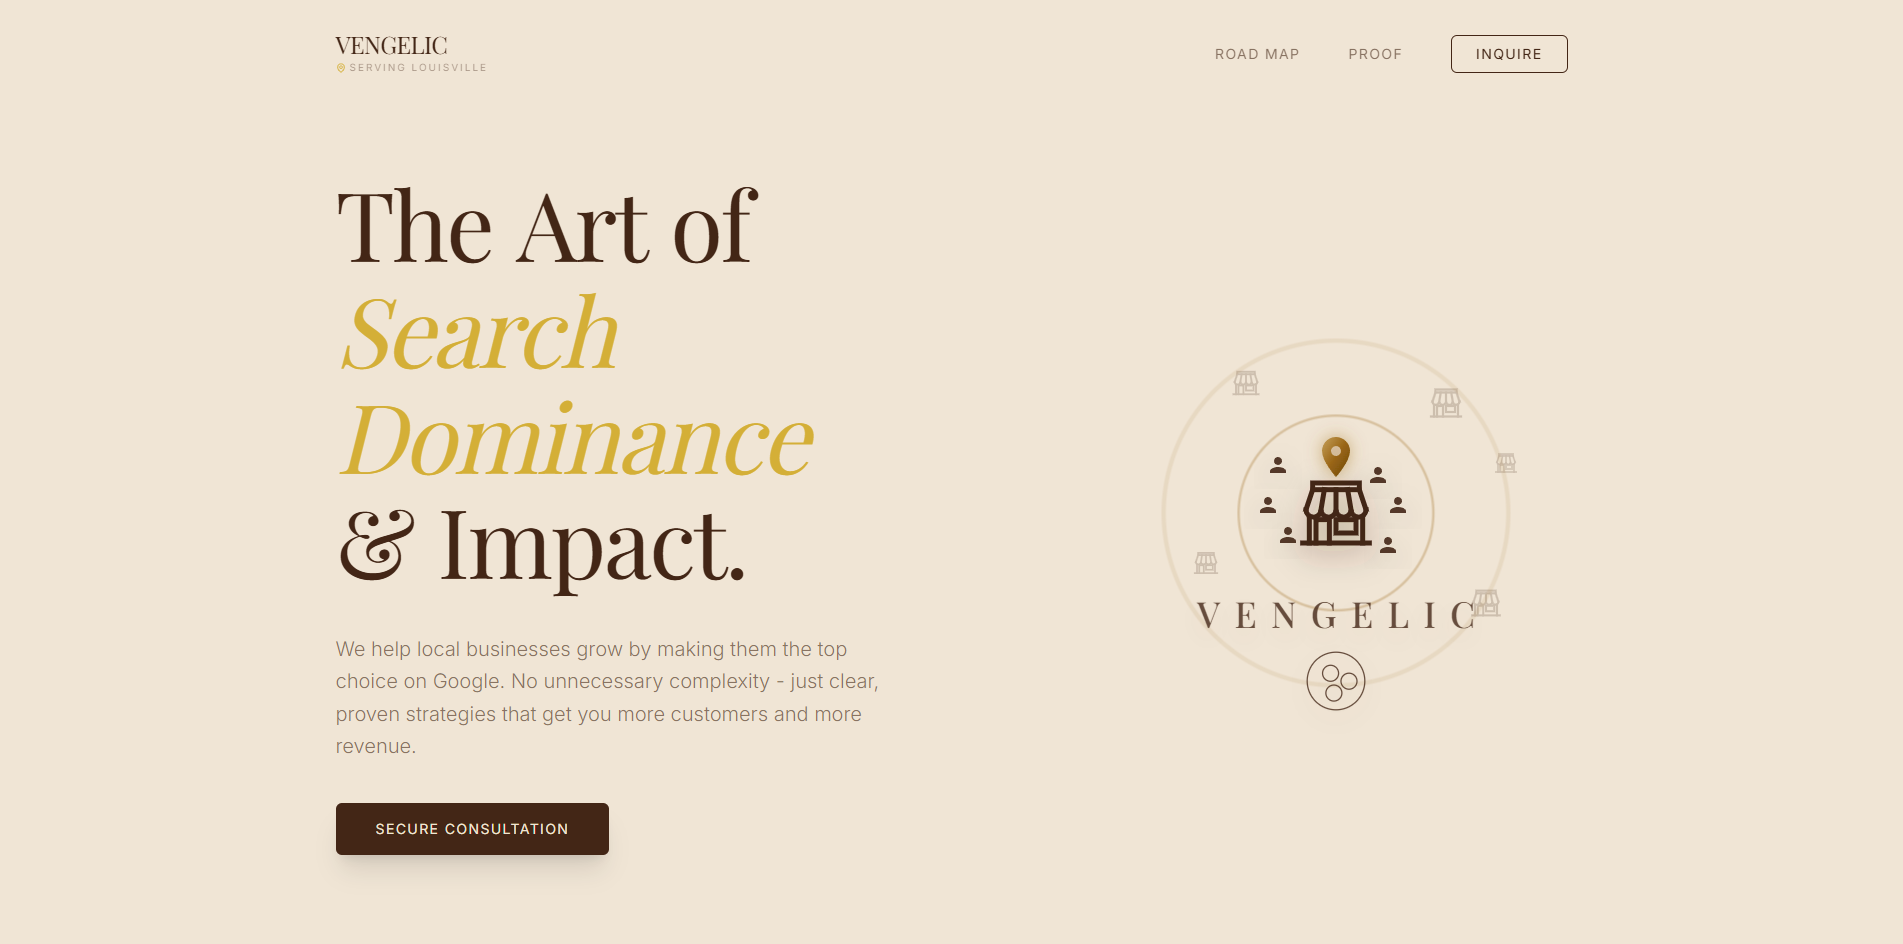
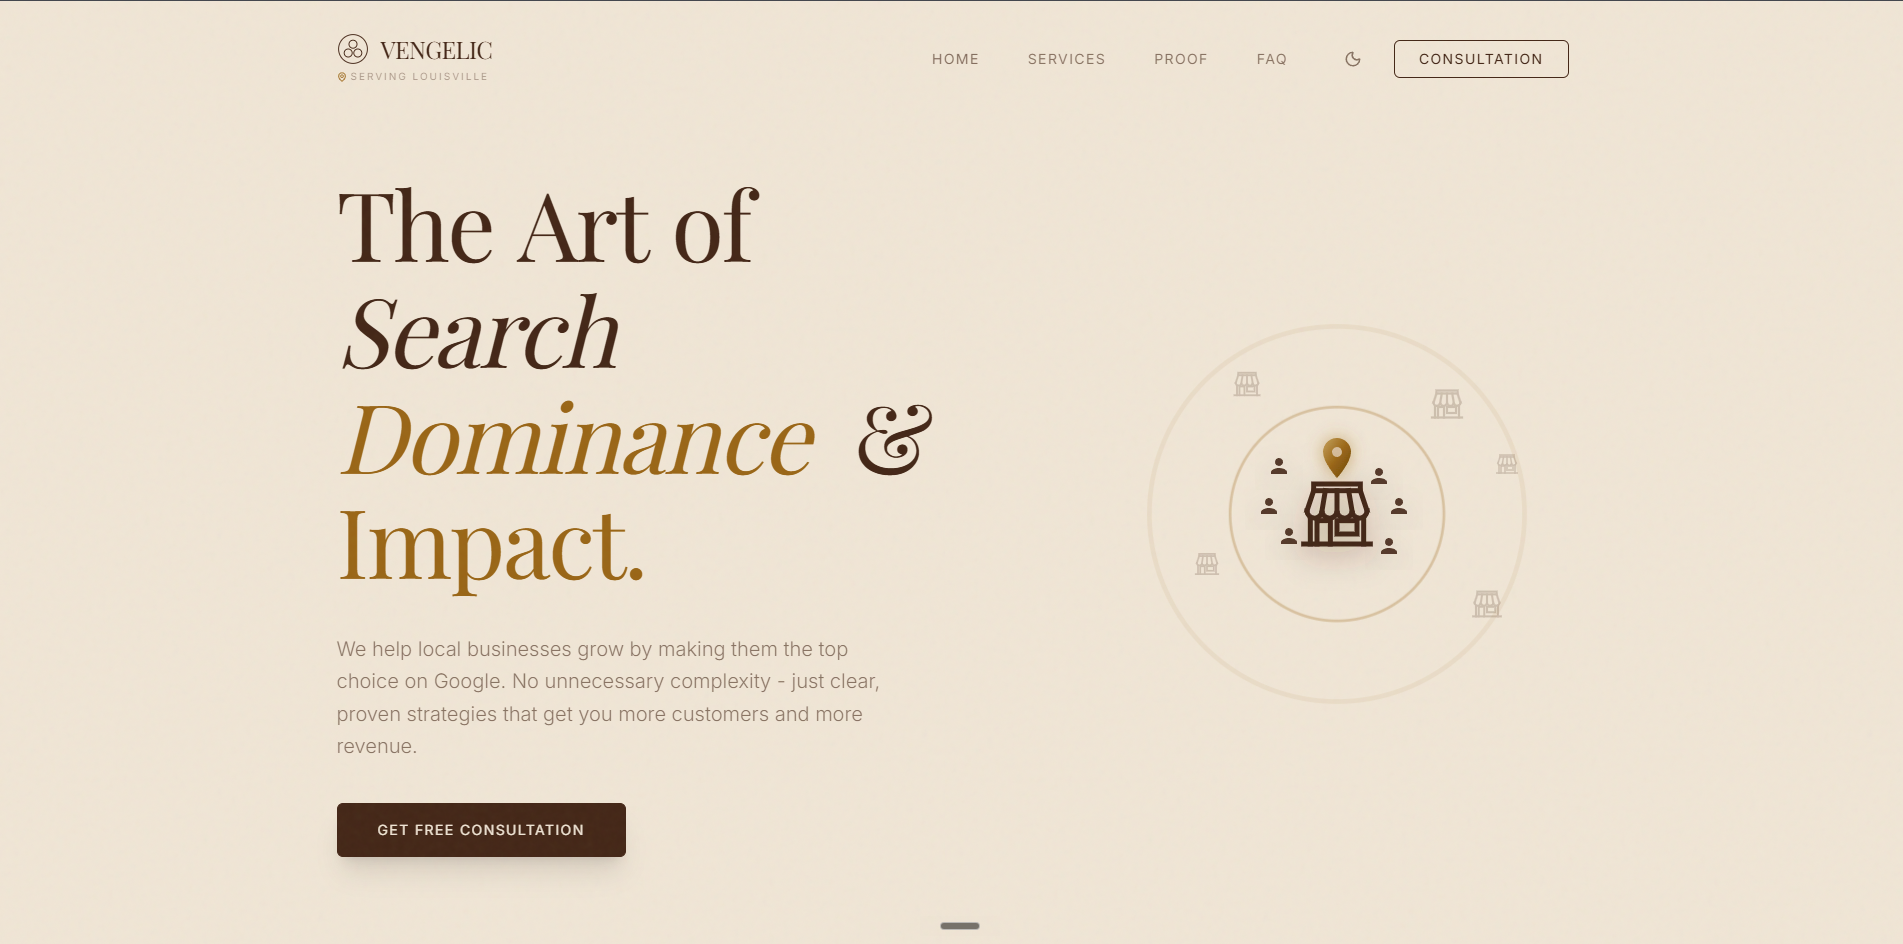
completed backend of the webiste and updated Open Graph Image Optimized section headers on mobile and centered them.

diff --git a/src/components/ContactForm.tsx b/src/components/ContactForm.tsx
@@ -3,21 +3,38 @@
 import React, { useState } from "react";
 import { motion } from "framer-motion";
 import { Loader2 } from "lucide-react";
+import { submitContactForm } from "@/app/actions/contact";
 
 export const ContactForm = () => {
   const [isSubmitting, setIsSubmitting] = useState(false);
   const [isSubmitted, setIsSubmitted] = useState(false);
-  const [website, setWebsite] = useState("");
+  const [error, setError] = useState<string | null>(null);
+  
+  const [formData, setFormData] = useState({
+    name: "",
+    email: "",
+    website: "",
+    message: ""
+  });
 
   const handleSubmit = async (e: React.FormEvent) => {
     e.preventDefault();
     setIsSubmitting(true);
+    setError(null);
     
-    // Simulate processing
-    await new Promise(resolve => setTimeout(resolve, 2000));
-    
-    setIsSubmitting(false);
-    setIsSubmitted(true);
+    try {
+      const result = await submitContactForm(formData);
+      
+      if (result.success) {
+        setIsSubmitted(true);
+      } else {
+        setError(result.error || "Something went wrong. Please try again.");
+      }
+    } catch (err) {
+      setError("A connection error occurred. Please try again.");
+    } finally {
+      setIsSubmitting(false);
+    }
   };
 
   if (isSubmitted) {
@@ -40,12 +57,19 @@ export const ContactForm = () => {
 
   return (
     <form className="space-y-8" onSubmit={handleSubmit}>
+      {error && (
+        <div className="p-4 bg-red-50 text-red-600 text-sm rounded-md border border-red-100">
+          {error}
+        </div>
+      )}
       <div className="grid grid-cols-1 md:grid-cols-2 gap-8">
         <div className="space-y-2">
           <label className="text-xs uppercase tracking-widest text-espresso/60 block px-1">Name *</label>
           <input
             required
             type="text"
+            value={formData.name}
+            onChange={(e) => setFormData({ ...formData, name: e.target.value })}
             className="w-full bg-transparent border-b border-espresso/20 py-3 px-1 focus:border-espresso outline-none transition-colors text-espresso"
             placeholder="Evelyn Harper"
           />
@@ -55,6 +79,8 @@ export const ContactForm = () => {
           <input
             required
             type="email"
+            value={formData.email}
+            onChange={(e) => setFormData({ ...formData, email: e.target.value })}
             className="w-full bg-transparent border-b border-espresso/20 py-3 px-1 focus:border-espresso outline-none transition-colors text-espresso"
             placeholder="evelyn@aether.com"
           />
@@ -65,8 +91,8 @@ export const ContactForm = () => {
         <label className="text-xs uppercase tracking-widest text-espresso/60 block px-1">Website</label>
         <input
           type="text"
-          value={website}
-          onChange={(e) => setWebsite(e.target.value)}
+          value={formData.website}
+          onChange={(e) => setFormData({ ...formData, website: e.target.value })}
           className="w-full bg-transparent border-b border-espresso/20 py-3 px-1 focus:border-espresso outline-none transition-colors text-espresso"
           placeholder="vengelic.com"
         />
@@ -76,6 +102,8 @@ export const ContactForm = () => {
         <label className="text-xs uppercase tracking-widest text-espresso/60 block px-1">Message</label>
         <textarea
           rows={4}
+          value={formData.message}
+          onChange={(e) => setFormData({ ...formData, message: e.target.value })}
           className="w-full bg-transparent border-b border-espresso/20 py-3 px-1 focus:border-espresso outline-none transition-colors text-espresso resize-none"
           placeholder="Tell us about your brand's vision..."
         />

diff --git a/src/app/actions/contact.ts b/src/app/actions/contact.ts
@@ -1,0 +1,71 @@
+"use server";
+
+import { Resend } from "resend";
+import { supabase } from "@/lib/supabase";
+
+const resend = new Resend(process.env.RESEND_API_KEY);
+
+interface ContactFormData {
+  name: string;
+  email: string;
+  website: string;
+  message: string;
+}
+
+export async function submitContactForm(data: ContactFormData) {
+  try {
+    // 1. Basic Validation
+    if (!data.name || !data.email) {
+      return { success: false, error: "Name and Email are required." };
+    }
+
+    // 2. Save to Supabase
+    const { error: dbError } = await supabase
+      .from("leads")
+      .insert([
+        {
+          name: data.name,
+          email: data.email,
+          website: data.website || null,
+          message: data.message || null,
+        },
+      ]);
+
+    if (dbError) {
+      console.error("Supabase Error:", dbError);
+      return { success: false, error: "Failed to save lead to database." };
+    }
+
+    // 3. Send Email via Resend
+    const recipientEmail = process.env.CONTACT_RECIPIENT_EMAIL || "julio@vengelic.com";
+
+    const { error: mailError } = await resend.emails.send({
+      from: "Vengelic Website <onboarding@resend.dev>",
+      to: [recipientEmail],
+      subject: `New Lead: ${data.name} from ${data.website || "No Website"}`,
+      html: `
+        <div style="font-family: serif; color: #432616; padding: 20px;">
+          <h2 style="border-bottom: 1px solid #432616; padding-bottom: 10px;">New Consultation Request</h2>
+          <p><strong>Name:</strong> ${data.name}</p>
+          <p><strong>Email:</strong> ${data.email}</p>
+          <p><strong>Website:</strong> ${data.website || "Not provided"}</p>
+          <p><strong>Message:</strong></p>
+          <p style="white-space: pre-wrap;">${data.message || "No message provided."}</p>
+          <hr style="border: 0; border-top: 1px solid #eee; margin-top: 20px;" />
+          <p style="font-size: 12px; color: #999;">Sent from Vengelic Website</p>
+        </div>
+      `,
+    });
+
+    if (mailError) {
+      console.error("Resend Error Details:", JSON.stringify(mailError, null, 2));
+      // We return success: true because the lead IS in Supabase, but we warn about the email.
+      return { success: true, warning: "Lead saved, but notification email failed. Check server logs." };
+    }
+
+    return { success: true };
+  } catch (error) {
+    console.error("Action Error:", error);
+    return { success: false, error: "An unexpected error occurred." };
+  }
+}

diff --git a/src/components/Hero.tsx b/src/components/Hero.tsx
@@ -46,7 +46,7 @@ export const Hero = () => {
           variants={containerVariants}
           initial="hidden"
           animate="visible"
-          className="lg:col-span-6 space-y-10"
+          className="lg:col-span-6 space-y-10 text-center lg:text-left"
         >
           <motion.div variants={itemVariants} className="space-y-4">
             <h1 className="font-serif text-5xl md:text-7xl lg:text-8xl leading-[1.1] tracking-tight text-espresso">
@@ -67,12 +67,12 @@ export const Hero = () => {
 
           <motion.p
             variants={itemVariants}
-            className="max-w-xl text-lg md:text-xl text-espresso/60 leading-relaxed font-light"
+            className="max-w-xl text-lg md:text-xl text-espresso/60 leading-relaxed font-light mx-auto lg:mx-0"
           >
             We help local businesses grow by making them the top choice on Google. No unnecessary complexity - just clear, proven strategies that get you more customers and more revenue.
           </motion.p>
 
-          <motion.div variants={itemVariants} className="flex items-center space-x-8">
+          <motion.div variants={itemVariants} className="flex items-center justify-center lg:justify-start space-x-8">
             <button
               onClick={openModal}
               className="px-10 py-4 bg-espresso text-linen text-sm uppercase tracking-widest hover:bg-linen hover:text-espresso border border-espresso transition-all duration-500 shadow-xl rounded-md glow-hover"

diff --git a/src/components/RoadMap.tsx b/src/components/RoadMap.tsx
@@ -326,7 +326,7 @@ export const RoadMap = () => {
           </div>
 
           {/* Right Side: Content & Features */}
-          <div className="lg:col-span-7 order-1 lg:order-2 space-y-12">
+          <div className="lg:col-span-7 order-1 lg:order-2 space-y-12 text-center lg:text-left">
             <div className="space-y-4">
               <motion.h2
                 initial={{ opacity: 0, y: 20 }}

diff --git a/src/lib/supabase.ts b/src/lib/supabase.ts
@@ -1,0 +1,10 @@
+import { createClient } from "@supabase/supabase-js";
+
+const supabaseUrl = process.env.NEXT_PUBLIC_SUPABASE_URL!;
+const supabaseAnonKey = process.env.NEXT_PUBLIC_SUPABASE_ANON_KEY!;
+
+if (!supabaseUrl || !supabaseAnonKey) {
+  console.warn("Supabase credentials missing. Check your .env.local file.");
+}
+
+export const supabase = createClient(supabaseUrl, supabaseAnonKey);
